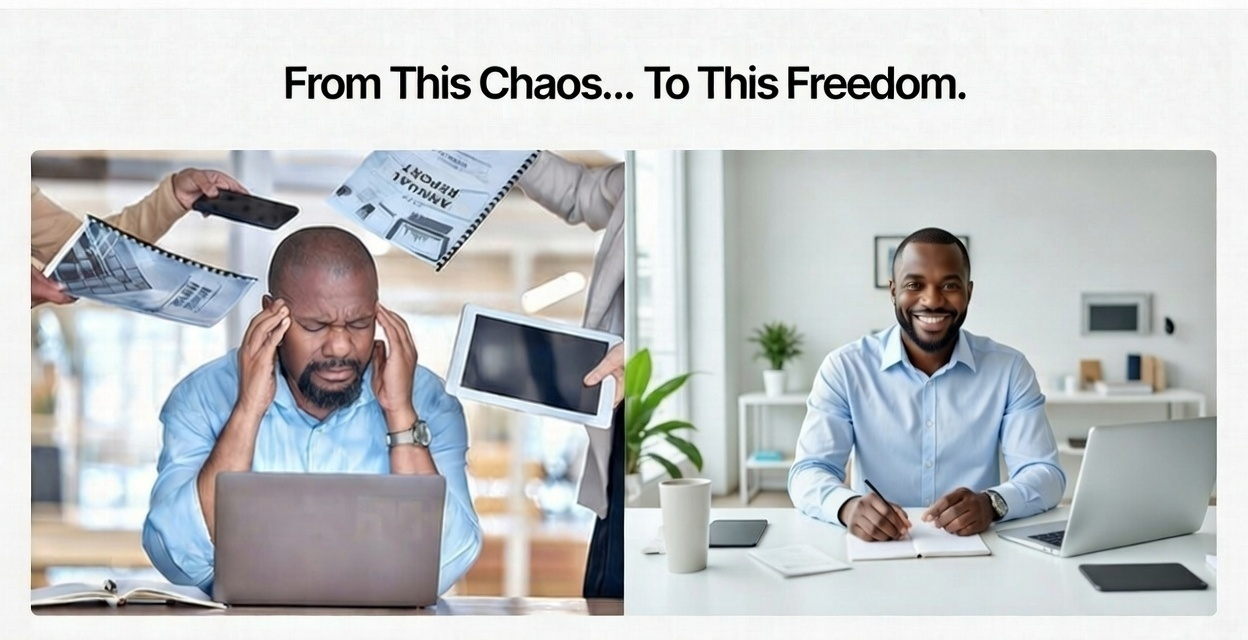
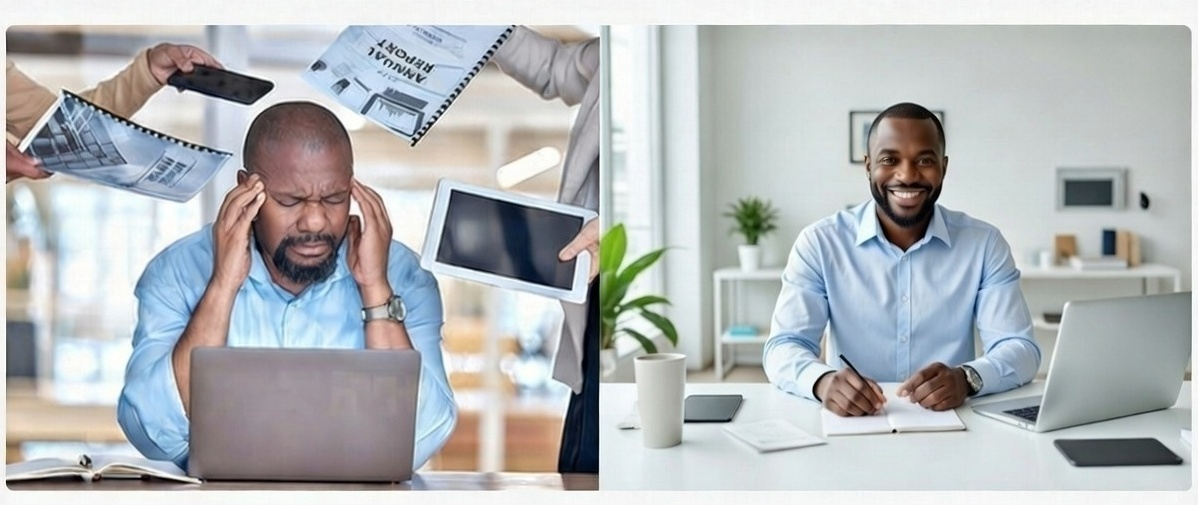
Hero section refinements (#4)
* Hero and ProblemSection refinements

- Crop headline from hero image, add as responsive HTML h1
- Increase subheadline text size on mobile (text-lg)
- Align ProblemSection image with headline on desktop (items-start)
- Both headline and tagline now use identical responsive sizing

* Trim white space from hero image edges

- Remove gray/white padding from all sides
- Image now 1198x505 (was 1248x530)
- Makes before/after comparison more prominent on mobile

* Update hero tagline text flow

- Tagline: "Imagine reclaiming your day..."
- Subheadline continues: "No more endless data entry..."

---------

diff --git a/components/home/HeroSection.tsx b/components/home/HeroSection.tsx
@@ -14,13 +14,18 @@ export default function HeroSection() {
           animate={{ opacity: 1, y: 0 }}
           transition={{ duration: 0.8 }}
         >
+          {/* Headline */}
+          <h1 className="text-sm sm:text-xl md:text-2xl font-semibold text-gray-800 mb-6">
+            From This Chaos... To This Freedom.
+          </h1>
+
           {/* Hero Image */}
           <div className="mb-6">
             <Image
               src="/images/newhhero1.jpg"
               alt="From chaos to freedom - AI workflow automation for small businesses"
-              width={1248}
-              height={640}
+              width={1198}
+              height={505}
               className="w-full h-auto rounded-lg shadow-xl mx-auto"
               priority
             />
@@ -28,12 +33,12 @@ export default function HeroSection() {
 
           {/* Tagline */}
           <h2 className="text-sm sm:text-xl md:text-2xl font-semibold text-gray-800 mb-6">
-            AI Workflow Automation That Actually Works for Small Businesses.
+            Imagine reclaiming your day...
           </h2>
 
           {/* Subheadline */}
-          <p className="text-base sm:text-lg md:text-xl text-gray-700 mb-8 max-w-4xl mx-auto leading-relaxed">
-            Imagine reclaiming your day: No more endless data entry, scheduling headaches, or customer follow-ups eating your time. At Novique, we build custom AI tools that automate the boring stuff, boost your efficiency, and help you snag more customers—without you needing a PhD in tech. Start with a free chat and watch your workflow transform.{" "}
+          <p className="text-lg sm:text-xl md:text-2xl text-gray-700 mb-8 max-w-4xl mx-auto leading-relaxed">
+            No more endless data entry, scheduling headaches, or customer follow-ups eating your time. At Novique, we build custom AI tools that automate the boring stuff, boost your efficiency, and help you snag more customers—without you needing a PhD in tech. Start with a free chat and watch your workflow transform.{" "}
             <span className="italic">(We handle the setup, you handle the high-fives.)</span>
           </p>
 

diff --git a/components/home/ProblemSection.tsx b/components/home/ProblemSection.tsx
@@ -4,7 +4,7 @@ import Image from "next/image";
 export default function ProblemSection() {
   return (
     <Section background="white">
-      <div className="grid md:grid-cols-2 gap-12 items-center">
+      <div className="grid md:grid-cols-2 gap-12 items-center md:items-start">
         {/* Image */}
         <div className="relative h-64 md:h-96 rounded-2xl overflow-hidden shadow-xl">
           <Image
